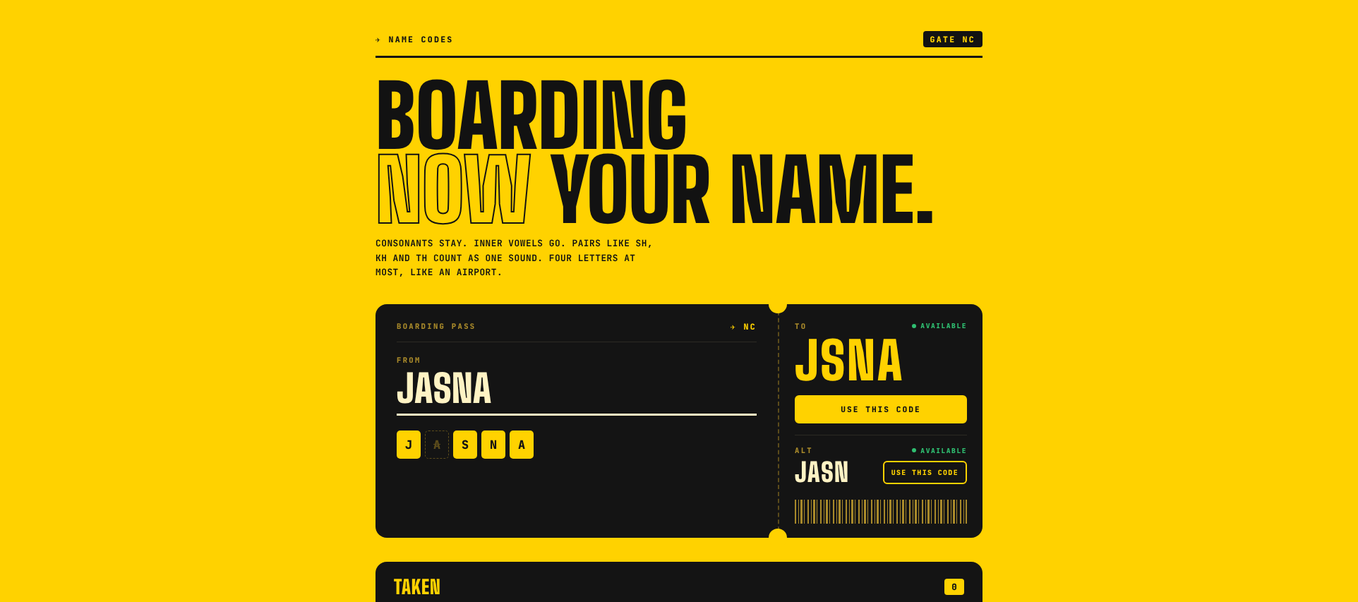
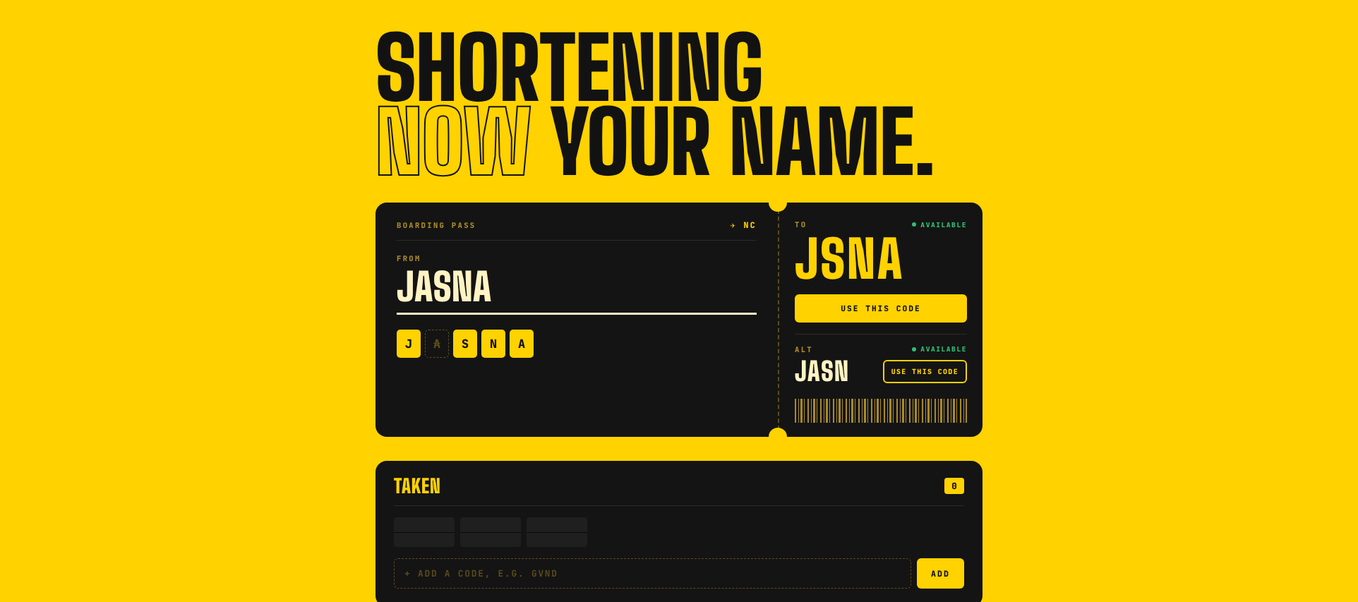
Name Codes: drop the header strip, lede and footer; reword the headline
Remove the strip above the headline, the line under it and the footer
note. The headline now reads "Shortening / now your name." The text
under "How the code is generated" runs the full width of the page.
The preview image is regenerated.

Claude-Session: https://claude.ai/code/session_012EYQEZ9H9Fr3wPxLJ6DF6V

Changed region(s): [[0.2784, 0.0299, 0.7423, 0.9867]]

diff --git a/NameCodes/index.html b/NameCodes/index.html
@@ -48,27 +48,6 @@
         margin: 0 auto;
       }
 
-      /* -- the sign above the desk ----------------------------------------- */
-
-      .topline {
-        display: flex;
-        justify-content: space-between;
-        align-items: center;
-        gap: 12px;
-        padding-bottom: 12px;
-        border-bottom: 3px solid var(--ink);
-        font-size: 0.72rem;
-        font-weight: 800;
-        letter-spacing: 0.2em;
-        text-transform: uppercase;
-      }
-      .topline .gate {
-        background: var(--ink);
-        color: var(--yellow);
-        padding: 4px 10px;
-        border-radius: 4px;
-      }
-
       h1 {
         font-family: var(--display);
         font-weight: 900;
@@ -76,22 +55,12 @@
         line-height: 0.86;
         letter-spacing: -0.005em;
         text-transform: uppercase;
-        margin: clamp(18px, 3vw, 30px) 0 14px;
+        margin: 0 0 clamp(22px, 4vw, 34px);
       }
       h1 .hollow {
         color: transparent;
         -webkit-text-stroke: 2px var(--ink);
       }
-      .lede {
-        max-width: 54ch;
-        margin: 0 0 clamp(22px, 4vw, 34px);
-        font-size: 0.8rem;
-        font-weight: 700;
-        line-height: 1.6;
-        letter-spacing: 0.04em;
-        text-transform: uppercase;
-      }
-
       .label {
         font-size: 0.66rem;
         font-weight: 800;
@@ -548,7 +517,6 @@
         text-transform: uppercase;
       }
       details p {
-        max-width: 70ch;
         margin: 12px 0 0;
       }
       details code {
@@ -558,16 +526,6 @@
         color: var(--yellow);
         font-family: var(--mono);
         font-size: 0.92em;
-      }
-
-      footer {
-        margin-top: 20px;
-        font-size: 0.68rem;
-        font-weight: 700;
-        line-height: 1.6;
-        letter-spacing: 0.08em;
-        text-transform: uppercase;
-        opacity: 0.7;
       }
 
       @media (max-width: 720px) {
@@ -608,16 +566,7 @@
   </head>
   <body>
     <div class="wrap">
-      <div class="topline">
-        <span>✈ Name Codes</span>
-        <span class="gate">Gate NC</span>
-      </div>
-
-      <h1>Boarding<br /><span class="hollow">now</span> your name.</h1>
-      <p class="lede">
-        Consonants stay. Inner vowels go. Pairs like sh, kh and th count as one
-        sound. Four letters at most, like an airport.
-      </p>
+      <h1>Shortening<br /><span class="hollow">now</span> your name.</h1>
 
       <div class="pass">
         <div class="main">
@@ -693,11 +642,6 @@
           fallback for resolving collisions.
         </p>
       </details>
-
-      <footer>
-        Heuristic, not a linguistic parser. Adjust the letter-pair list in the
-        script if a particular spelling keeps coming out wrong.
-      </footer>
     </div>
 
     <script src="codes.js"></script>
